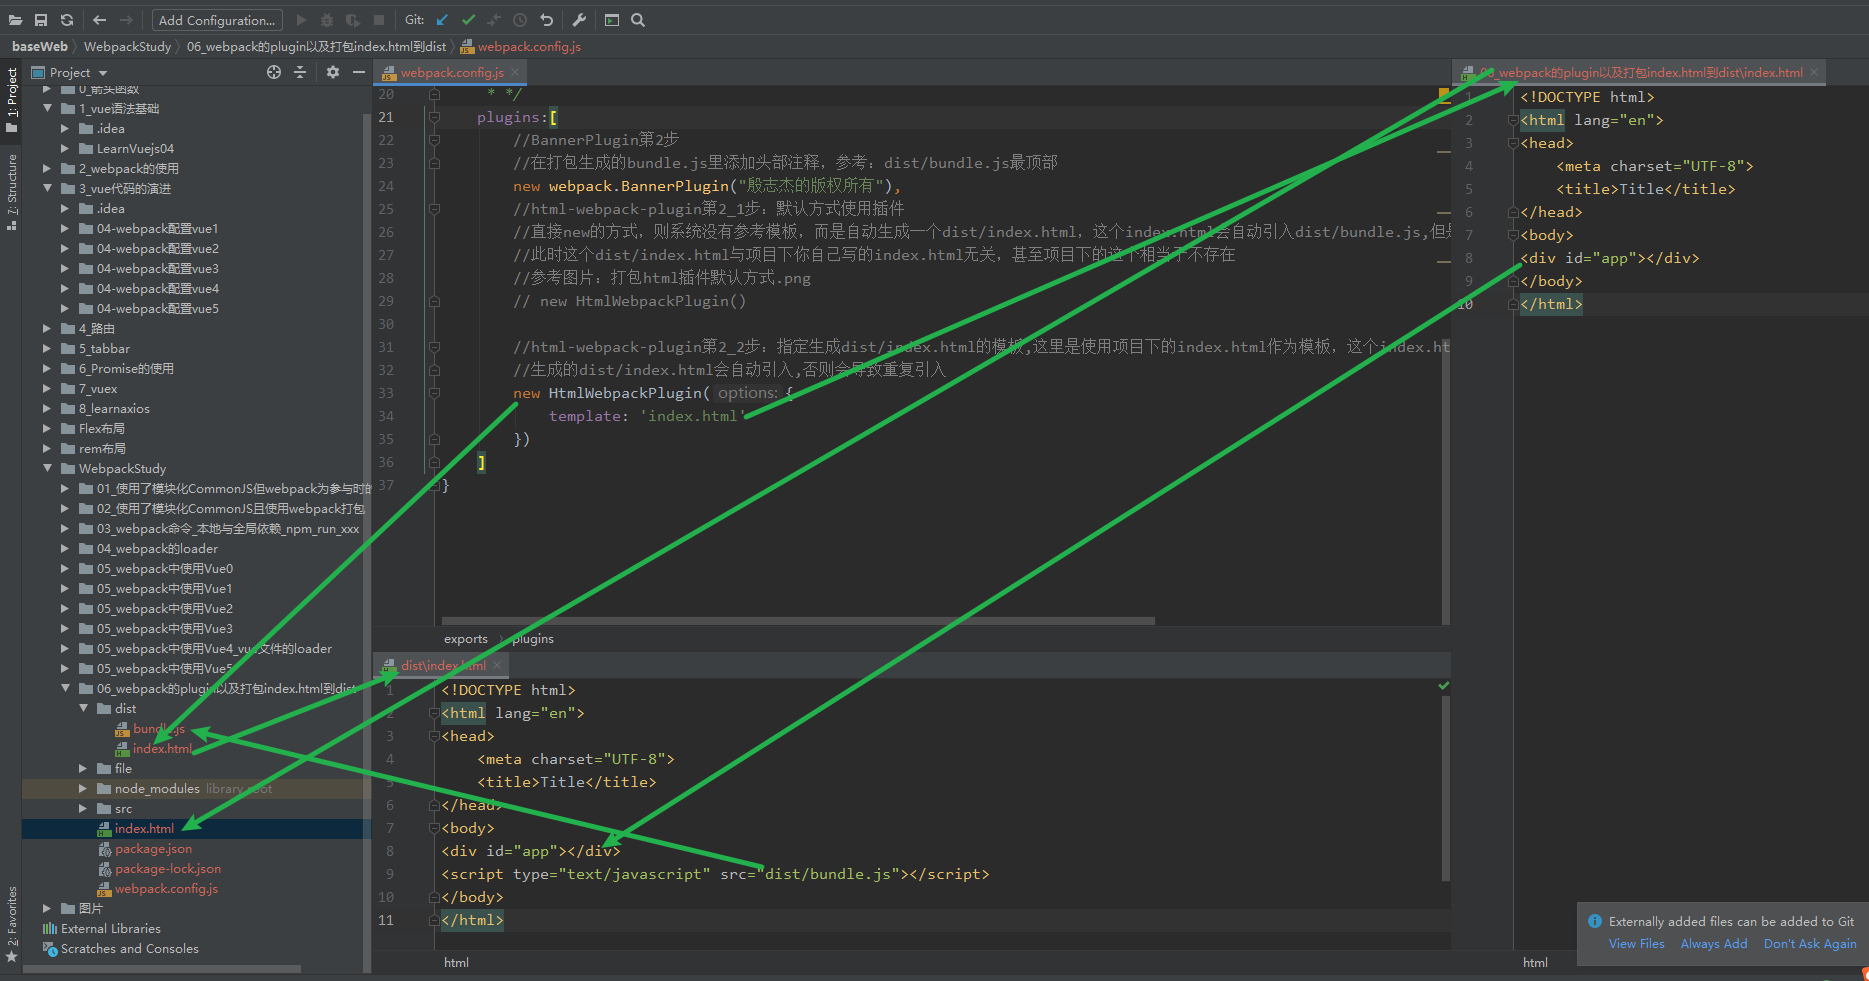
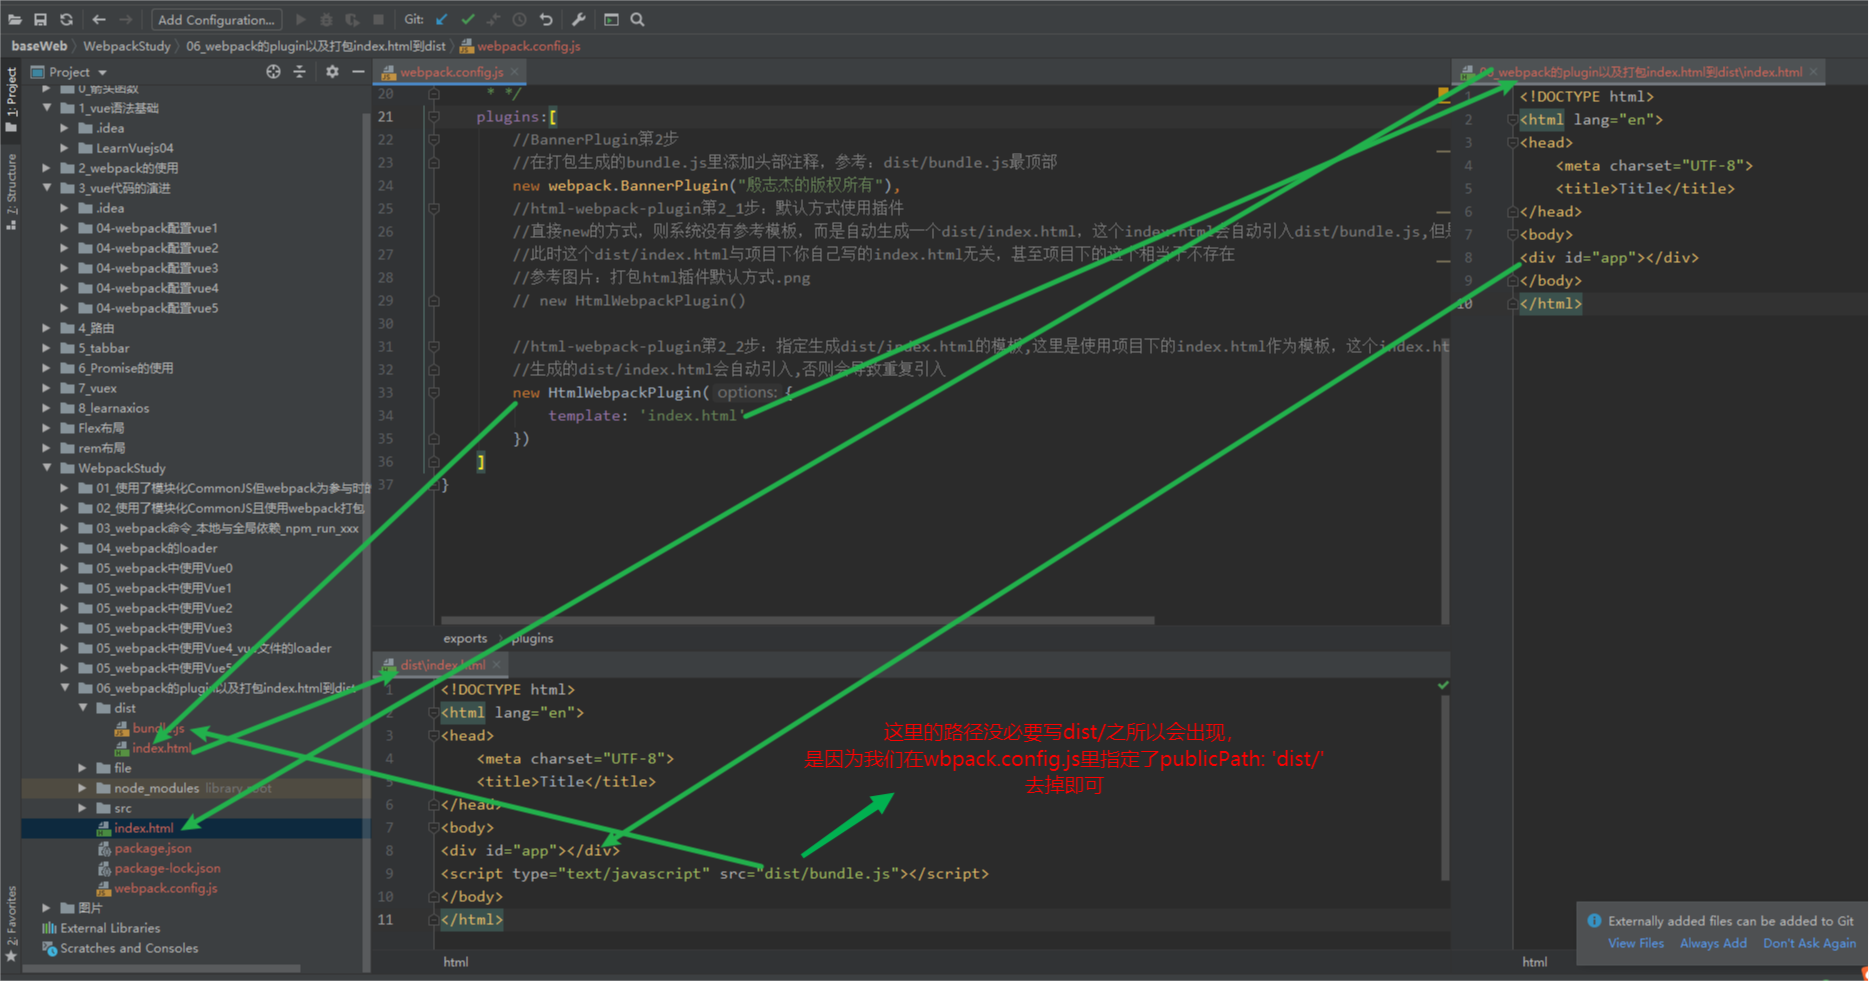
babel-loader

diff --git a/WebpackStudy/06_webpack的plugin以及打包index.html到dist/webpack.config.js b/WebpackStudy/06_webpack的plugin以及打包index.html到dist/webpack.config.js
@@ -13,7 +13,9 @@ module.exports = {
     output:{
         path: path.resolve(__dirname,'dist'),
         filename: 'bundle.js',
-        publicPath: 'dist/'//参考url-loader和大于limit的图片加载路径问题.png，给所有的url前面追加'dist/'，适用于当前index.html不在dist里的情况
+        //html-webpack-plugin第3步,因为是在dist下生成index.html，无需指定publicPath,即无需在路径前加dist/即可访问
+        // 看考图片：打包html插件使用模板.png
+        // publicPath: 'dist/'
     },
     /**
      插件定义到plugins里
